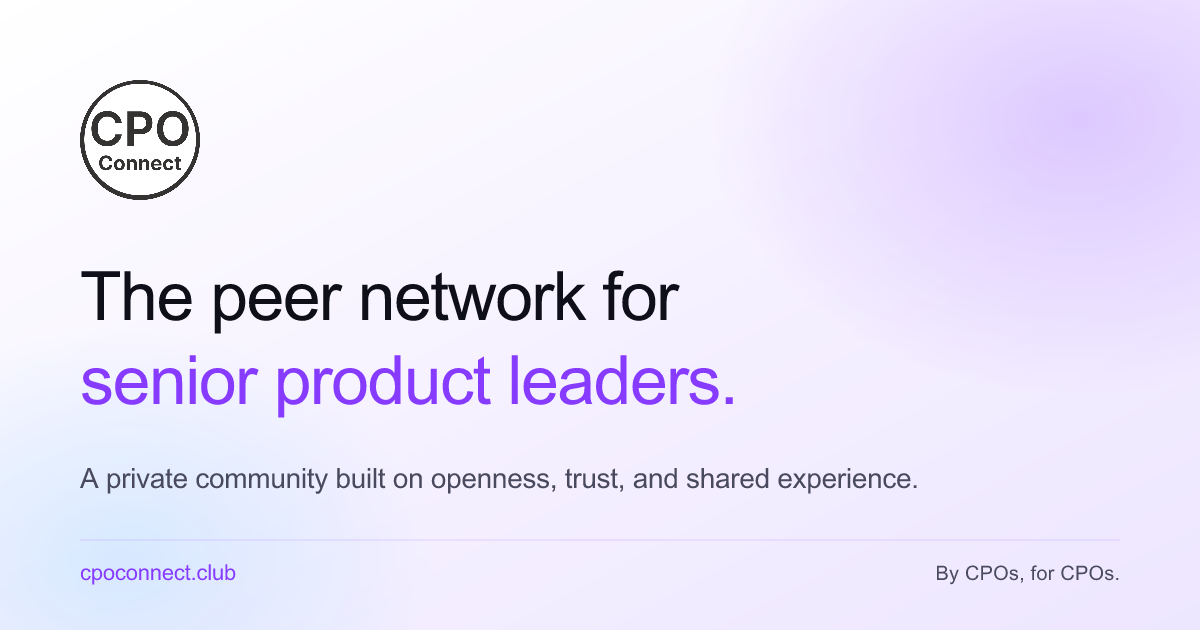
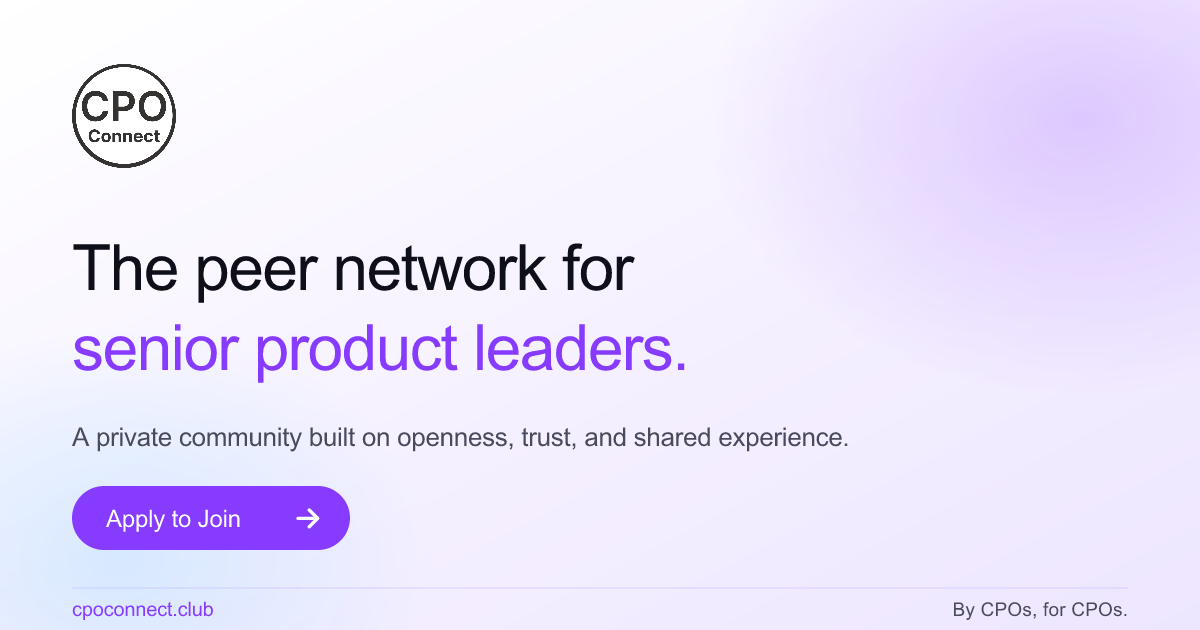
feat(seo): add CTA pill to OG card + shorten title (THE-702 polish)
opengraph.xyz flagged two follow-ups on PR #50's OG card:
- Missing call-to-action in the image
- og:title 63 chars (optimal 50-60)

Changes:
- public/og-image.png — re-rendered card with a primary-purple
  "Apply to Join →" pill below the sub-line, mirroring the hero CTA.
  Same gradient, blobs, headline, and footer; only the lower-left
  block changes. Slightly tightened type sizes/spacing to make room.
- index.html — shorten <title>, og:title, twitter:title from
  "CPO Connect — Private Peer Community for Chief Product Officers"
  (63 chars) to "CPO Connect — Peer Community for Chief Product
  Officers" (55 chars). Drops only "Private" — keeps the high-value
  "Peer" and "Chief Product Officers" tokens.

og:description, twitter:description, image dimensions, and image
alt text unchanged.

Linear: THE-702

diff --git a/index.html b/index.html
@@ -9,7 +9,7 @@
     <link rel="manifest" href="/manifest.json" />
     <meta name="theme-color" content="#2563eb" />
     <meta name="viewport" content="width=device-width, initial-scale=1.0" />
-    <title>CPO Connect — Private Peer Community for Chief Product Officers</title>
+    <title>CPO Connect — Peer Community for Chief Product Officers</title>
 
     <!-- SEO -->
     <meta name="description" content="CPO Connect is the CPO community for Chief Product Officers and senior product leaders — real conversations, peer-to-peer learning, built on trust." />
@@ -20,7 +20,7 @@
     <meta name="robots" content="index, follow" />
 
     <!-- OpenGraph -->
-    <meta property="og:title" content="CPO Connect — Private Peer Community for Chief Product Officers" />
+    <meta property="og:title" content="CPO Connect — Peer Community for Chief Product Officers" />
     <meta property="og:description" content="CPO Connect is the CPO community for Chief Product Officers and senior product leaders — real conversations, peer-to-peer learning, built on trust." />
     <meta property="og:image" content="https://cpoconnect.club/og-image.png" />
     <meta property="og:image:width" content="1200" />
@@ -32,7 +32,7 @@
 
     <!-- Twitter Card -->
     <meta name="twitter:card" content="summary_large_image" />
-    <meta name="twitter:title" content="CPO Connect — Private Peer Community for Chief Product Officers" />
+    <meta name="twitter:title" content="CPO Connect — Peer Community for Chief Product Officers" />
     <meta name="twitter:description" content="The CPO community for Chief Product Officers and senior product leaders. Built on openness, trust, and shared experience." />
     <meta name="twitter:image" content="https://cpoconnect.club/og-image.png" />
     <meta name="twitter:image:alt" content="CPO Connect — The peer network for senior product leaders." />